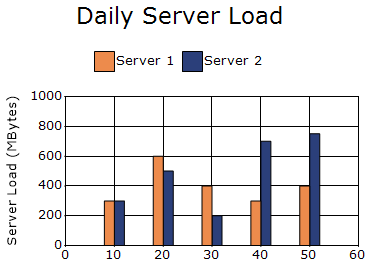
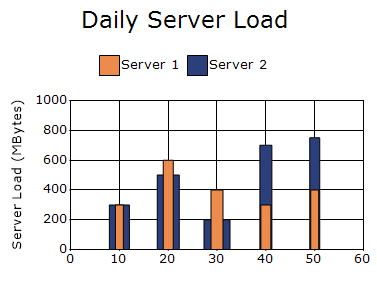
Update the chart types

Changed region(s): [[0.0, 0.3296, 0.9947, 0.9888], [0.2048, 0.0, 0.7606, 0.1199], [0.234, 0.1798, 0.7314, 0.2996]]

diff --git a/WindowsForms/chart/Chart-Types/ColumnandBar.md b/WindowsForms/chart/Chart-Types/ColumnandBar.md
@@ -40,7 +40,7 @@ chartControl.Series.Add(secondServer);
 {% endhighlight %}
 {% highlight vb %}
 
-// Create chart series and add data points into it.
+' Create chart series and add data points into it.
 Dim firstServer As New ChartSeries("Server 1", ChartSeriesType.Column)
 firstServer.Points.Add(10, 300)
 firstServer.Points.Add(20, 600)
@@ -73,7 +73,7 @@ The supported values are defined in the [ChartColumnDrawMode](https://help.syncf
 - [InDepthMode](https://help.syncfusion.com/cr/windowsforms/Syncfusion.Windows.Forms.Chart.ChartColumnDrawMode.html): Draws columns at different positions along the depth of the chart.
 - [PlaneMode](https://help.syncfusion.com/cr/windowsforms/Syncfusion.Windows.Forms.Chart.ChartColumnDrawMode.html): Draws columns side by side on the same plane.
 
-N> The `ColumnDrawMode` property applies to `Column`, `Column Range`, `Bar`, `Box and Whisker`, and `Gantt` charts. The selected mode is visible only when 3D rendering is enabled.
+N> The `ColumnDrawMode` property applies to `Column Range`, `Bar`, `Box and Whisker`, and `Gantt` charts. The selected mode is visible only when 3D rendering is enabled.
 
 The following code enables 3D rendering and displays the columns in plane mode.
 
@@ -92,7 +92,7 @@ chartControl.ColumnDrawMode = ChartColumnDrawMode.PlaneMode
 
 ### Column width mode
 
-The [ColumnWidthMode](https://help.syncfusion.com/cr/windowsforms/Syncfusion.Windows.Forms.Chart.ChartControl.html#Syncfusion_Windows_Forms_Chart_ChartControl_ColumnWidthMode) property specifies how the widths of column-like chart elements are calculated. The default value is `DefaultWidthMode`.
+The [ColumnWidthMode](https://help.syncfusion.com/cr/windowsforms/Syncfusion.Windows.Forms.Chart.ChartControl.html#Syncfusion_Windows_Forms_Chart_ChartControl_ColumnWidthMode) property specifies how the widths of column-like chart elements are calculated. The default value is [DefaultWidthMode](https://help.syncfusion.com/cr/windowsforms/Syncfusion.Windows.Forms.Chart.ChartColumnWidthMode.html#Syncfusion_Windows_Forms_Chart_ChartColumnWidthMode_DefaultWidthMode).
 
 The supported values are defined in the [ChartColumnWidthMode](https://help.syncfusion.com/cr/windowsforms/Syncfusion.Windows.Forms.Chart.ChartColumnWidthMode.html) enumeration:
 
@@ -103,15 +103,59 @@ The supported values are defined in the [ChartColumnWidthMode](https://help.sync
 N> The `ColumnWidthMode` property also applies to `Column Range`, `Stacking Column`, `Stacked Column 100`, `Box and Whisker`, and `Candle charts`.
 
 
-The following code sets FixedWidthMode and automatically calculates the column width when YValues[1] is not specified.
+The following code sets ColumnWidthMode to FixedWidthMode and defines individual column widths for each data point using YValues[1].
+
 {% tabs %}
 {% highlight c# %}
-chartControl.ColumnWidthMode =
-    ChartColumnWidthMode.FixedWidthMode;
+
+ChartSeries firstServer = new ChartSeries("Server 1", ChartSeriesType.Column);
+// X, Height(YValues[0]), Width(YValues[1])
+
+firstServer.Points.Add(new ChartPoint(10, new double[] { 300, 4 }));
+firstServer.Points.Add(new ChartPoint(20, new double[] { 600, 5 }));
+firstServer.Points.Add(new ChartPoint(30, new double[] { 400, 6 }));
+firstServer.Points.Add(new ChartPoint(40, new double[] { 300, 5 }));
+firstServer.Points.Add(new ChartPoint(50, new double[] { 400, 4 }));
+
+ChartSeries secondServer = new ChartSeries("Server 2", ChartSeriesType.Column);
+// X, Height(YValues[0]), Width(YValues[1])
+
+secondServer.Points.Add(new ChartPoint(10, new double[] { 300, 10 }));
+secondServer.Points.Add(new ChartPoint(20, new double[] { 500, 11 }));
+secondServer.Points.Add(new ChartPoint(30, new double[] { 200, 13 }));
+secondServer.Points.Add(new ChartPoint(40, new double[] { 700, 6 }));
+secondServer.Points.Add(new ChartPoint(50, new double[] { 750, 5 }));
+
+chartControl.ColumnWidthMode = ChartColumnWidthMode.FixedWidthMode;
+
+chartControl.Series.Add(firstServer);
+chartControl.Series.Add(secondServer);
+
 {% endhighlight %}
 {% highlight vb %}
-chartControl.ColumnWidthMode =
-    ChartColumnWidthMode.FixedWidthMode
+
+Dim firstServer As New ChartSeries("Server 1", ChartSeriesType.Column)
+
+' X, Height(YValues(0)), Width(YValues(1))
+firstServer.Points.Add(New ChartPoint(10, New Double() {300, 4}))
+firstServer.Points.Add(New ChartPoint(20, New Double() {600, 5}))
+firstServer.Points.Add(New ChartPoint(30, New Double() {400, 6}))
+firstServer.Points.Add(New ChartPoint(40, New Double() {300, 5}))
+firstServer.Points.Add(New ChartPoint(50, New Double() {400, 4}))
+
+Dim secondServer As New ChartSeries("Server 2", ChartSeriesType.Column)
+
+' X, Height(YValues(0)), Width(YValues(1))
+secondServer.Points.Add(New ChartPoint(10, New Double() {300, 10}))
+secondServer.Points.Add(New ChartPoint(20, New Double() {500, 11}))
+secondServer.Points.Add(New ChartPoint(30, New Double() {200, 13}))
+secondServer.Points.Add(New ChartPoint(40, New Double() {700, 6}))
+secondServer.Points.Add(New ChartPoint(50, New Double() {750, 5}))
+
+chartControl.ColumnWidthMode = ChartColumnWidthMode.FixedWidthMode
+
+chartControl.Series.Add(firstServer)
+chartControl.Series.Add(secondServer)
 {% endhighlight %}
 {% endtabs %}
 
@@ -136,11 +180,11 @@ chartControl.ColumnFixedWidth = 10
 {% endhighlight %}
 {% endtabs %}
 
-![Column Fixed width in Windows Forms Chart](../Chart-Types_images/windowsforms-column-mode-width-chart.png)
+![Column Fixed width in Windows Forms Chart](../Chart-Types_images/windowsforms-column-fixedwidth.png)
 
 ### Draw column separating lines
 
-The [DrawColumnSeparatingLines](https://help.syncfusion.com/cr/windowsforms/Syncfusion.Windows.Forms.Chart.ChartSeries.html#Syncfusion_Windows_Forms_Chart_ChartSeries_DrawColumnSeparatingLines) property controls whether separating lines are drawn between the columns in a series. The default value is `false`. 【1-22c821】
+The [DrawColumnSeparatingLines](https://help.syncfusion.com/cr/windowsforms/Syncfusion.Windows.Forms.Chart.ChartSeries.html#Syncfusion_Windows_Forms_Chart_ChartSeries_DrawColumnSeparatingLines) property controls whether separating lines are drawn between the columns in a series. The default value is `false`.
 
 N> The `DrawColumnSeparatingLines` property also applies to `Bar` charts.
 
@@ -166,7 +210,7 @@ The supported values are defined in the [ChartColumnType](https://help.syncfusio
 - [Box](https://help.syncfusion.com/cr/windowsforms/Syncfusion.Windows.Forms.Chart.ChartColumnType.html#Syncfusion_Windows_Forms_Chart_ChartColumnType_Box): Displays columns as rectangular boxes.
 - [Cylinder](https://help.syncfusion.com/cr/windowsforms/Syncfusion.Windows.Forms.Chart.ChartColumnType.html#Syncfusion_Windows_Forms_Chart_ChartColumnType_Cylinder): Displays columns as cylinders.
 
-N> The `ColumnType` property applies to `Column`, `Column Range`, `Stacking Column`, `Candle`, `Bar`, and `Stacking Bar` charts.
+N> The `ColumnType` property also applies to `Column Range`, `Stacking Column`, `Candle`, `Bar`, and `Stacking Bar` charts.
 
 The following code enables 3D rendering and displays the columns as cylinders.
 
@@ -202,93 +246,13 @@ chartControl.Series(0).ConfigItems.ColumnItem.CornerRadius = New SizeF(10, 10)
 
 ![Column Radius in Windows Forms Chart](../Chart-Types_images/windowsforms-column-corner-radius-chart.png)
 
-
-### Shading mode
-
-The [ShadingMode](https://help.syncfusion.com/cr/windowsforms/Syncfusion.Windows.Forms.Chart.ChartColumnConfigItem.html#Syncfusion_Windows_Forms_Chart_ChartColumnConfigItem_ShadingMode) property specifies the shading effect applied to columns . By default, the shading mode is set to [PhongCylinder](https://help.syncfusion.com/cr/windowsforms/Syncfusion.Windows.Forms.Chart.ChartColumnShadingMode.html#Syncfusion_Windows_Forms_Chart_ChartColumnShadingMode_PhongCylinder), rendering columns  with a cylindrical lighting effect.
-
-The [ShadingMode](https://help.syncfusion.com/cr/windowsforms/Syncfusion.Windows.Forms.Chart.ChartColumnConfigItem.html#Syncfusion_Windows_Forms_Chart_ChartColumnConfigItem_ShadingMode) property supports the following values:
-
-- [FlatRectangle](https://help.syncfusion.com/cr/windowsforms/Syncfusion.Windows.Forms.Chart.ChartColumnShadingMode.html#Syncfusion_Windows_Forms_Chart_ChartColumnShadingMode_FlatRectangle): Renders columns with flat rectangular shading which is default value of Shading mode.
-- [PhongCylinder](https://help.syncfusion.com/cr/windowsforms/Syncfusion.Windows.Forms.Chart.ChartColumnShadingMode.html#Syncfusion_Windows_Forms_Chart_ChartColumnShadingMode_PhongCylinder): Renders columns using Phong shading to create a cylindrical lighting effect.
-
-The following code example demonstrates how to apply the FlatRectangle shading mode to column chart.
-
-{% tabs %}
-{% highlight c# %}
-chartControl.Series[0].ConfigItems.ColumnItem.ShadingMode = ChartColumnShadingMode.FlatRectangle;
-{% endhighlight %}
-{% highlight vb %}
-chartControl.Series(0).ConfigItems.ColumnItem.ShadingMode = ChartColumnShadingMode.FlatRectangle
-{% endhighlight %}
-{% endtabs %}
-
-### Light angle
-
-The [LightAngle](https://help.syncfusion.com/cr/windowsforms/Syncfusion.Windows.Forms.Chart.ChartColumnConfigItem.html#Syncfusion_Windows_Forms_Chart_ChartColumnConfigItem_LightAngle) property specifies the horizontal angle of the light source when the [ShadingMode](https://help.syncfusion.com/cr/windowsforms/Syncfusion.Windows.Forms.Chart.ChartColumnConfigItem.html#Syncfusion_Windows_Forms_Chart_ChartColumnConfigItem_ShadingMode) property is set to [PhongCylinder](https://help.syncfusion.com/cr/windowsforms/Syncfusion.Windows.Forms.Chart.ChartColumnShadingMode.html#Syncfusion_Windows_Forms_Chart_ChartColumnShadingMode_PhongCylinder). The angle is specified in radians, and the default value is `-Math.PI /4`.
-
-N>
-- The `LightAngle` property also applies to `Column Range`, `Stacking Column`, `Stacking Column 100`, `Bar`, `Box and Whisker`, `Gantt`, `Histogram`, `Tornado`, `Polar`, `Radar`, `Candle`, `HiLo`, and `HiLo Open Close` charts.
-- For `HiLo` and `HiLo Open Close` charts, the `LightAngle` property applies only in 3D mode.
-
-The following code sets the light angle to Math.PI / 2.
-
-{% tabs %}
-{% highlight c# %}
-chartControl.Series[0].ConfigItems.ColumnItem.ShadingMode =
-    ChartColumnShadingMode.PhongCylinder;
-chartControl.Series[0].ConfigItems.ColumnItem.LightAngle =
-    Math.PI / 2;
-{% endhighlight %}
-{% highlight vb %}
-chartControl.Series(0).ConfigItems.ColumnItem.ShadingMode =
-    ChartColumnShadingMode.PhongCylinder
-chartControl.Series(0).ConfigItems.ColumnItem.LightAngle =
-    Math.PI / 2
-{% endhighlight %}
-{% endtabs %}
-
-### Light color
-
-The [LightColor](https://help.syncfusion.com/cr/windowsforms/Syncfusion.Windows.Forms.Chart.ChartColumnConfigItem.html#Syncfusion_Windows_Forms_Chart_ChartColumnConfigItem_LightColor) property specifies the color of the light source when the [ShadingMode](https://help.syncfusion.com/cr/windowsforms/Syncfusion.Windows.Forms.Chart.ChartColumnConfigItem.html#Syncfusion_Windows_Forms_Chart_ChartColumnConfigItem_ShadingMode) property is set to [PhongCylinder](https://help.syncfusion.com/cr/windowsforms/Syncfusion.Windows.Forms.Chart.ChartColumnShadingMode.html#Syncfusion_Windows_Forms_Chart_ChartColumnShadingMode_PhongCylinder). If no color is specified, `White` is used as the light source color by default.
-
-N> The `LightColor` property also applies to `Bar`, `Box and Whisker`, `Gantt`, `Histogram`, `Tornado`, and `Radar` charts.
-
-The following code example demonstrates how to apply light color.
-
-{% tabs %}
-{% highlight c# %}
-chartControl.Series[0].ConfigItems.ColumnItem.LightColor = Color.Red;
-{% endhighlight %}
-{% highlight vb %}
-chartControl.Series(0).ConfigItems.ColumnItem.LightColor = Color.Red
-{% endhighlight %}
-{% endtabs %}
-
-### Phong alpha
-
-The [PhongAlpha](https://help.syncfusion.com/cr/windowsforms/Syncfusion.Windows.Forms.Chart.ChartColumnConfigItem.html#Syncfusion_Windows_Forms_Chart_ChartColumnConfigItem_PhongAlpha) property controls the intensity and sharpness of the specular lighting effect applied to columns or bars. By default, the value is set to `20d`.
-
-N> The `PhongAlpha` property applies to  `Bar`, `Box and Whisker`, `Gantt`, `Histogram`, `Tornado`, `Polar`, `Radar`, `HiLo`, `HiLo Open Close`, `Candle`, and `Scatter` charts.
-
-The following code example demonstrates how to set the PhongAlpha property to 40d for column chart.
-
-{% tabs %}
-{% highlight c# %}
-chartControl.Series[0].ConfigItems.ColumnItem.PhongAlpha = 40d;
-{% endhighlight %}
-{% highlight vb %}
-chartControl.Series(0).ConfigItems.ColumnItem.PhongAlpha = 40.0
-{% endhighlight %}
-{% endtabs %}
-
 ### Spacing
 
 The [Spacing](https://help.syncfusion.com/windowsforms/chart/chart-series#spacing) property specifies the space between data points as a percentage of the X-axis interval width. The default value is `30`.
 
 N>
 - The supported value ranges from `10` to `99`. The remaining interval width is used to render the data points and is divided among the series when multiple series are displayed.
-- The `Spacing` property also applies to `Bar`, `Box and Whisker`, `Gantt`, `Tornado`, `Candle`, `HiLo`, and `HiLo Open Close` charts.
+- The `Spacing` property also applies to `Column Range`, `Stacking Column`, `Stacked Column 100`, `Bar`, `Stacking Bar`, `Stacked Bar 100`, `Box and Whisker`, `Gantt`, `Tornado`, `Candle`, `HiLo`, and `HiLo Open Close` charts.
 - The `Spacing` property is not applied when the `ColumnWidthMode` property is set to `FixedWidthMode`.
 
 The following code sets the spacing between columns to `70`.

diff --git a/WindowsForms/chart/Chart-Types/BubbleandScatter.md b/WindowsForms/chart/Chart-Types/BubbleandScatter.md
@@ -29,16 +29,16 @@ series.Points.Add(90, 35, 4);
 
 chartControl.Series.Add(series);
 
-ChartSeries ChartSeries = new ChartSeries("Technology BBB", ChartSeriesType.Bubble);
-ChartSeries.Text = ChartSeries.Name;
+ChartSeries chartSeries = new ChartSeries("Technology BBB", ChartSeriesType.Bubble);
+chartSeries.Text = ChartSeries.Name;
 
-ChartSeries.Points.Add(10, 18, 4);
-ChartSeries.Points.Add(30, 29, 3);
-ChartSeries.Points.Add(50, 18, 2);
-ChartSeries.Points.Add(70, 24, 4);
-ChartSeries.Points.Add(90, 15, 4);
+chartSeries.Points.Add(10, 18, 4);
+chartSeries.Points.Add(30, 29, 3);
+chartSeries.Points.Add(50, 18, 2);
+chartSeries.Points.Add(70, 24, 4);
+chartSeries.Points.Add(90, 15, 4);
 
-chartControl.Series.Add(ChartSeries);
+chartControl.Series.Add(chartSeries);
 
 {% endhighlight %}
 {% highlight vb %}
@@ -54,23 +54,23 @@ series.Points.Add(90, 35, 4)
 
 chartControl.Series.Add(series)
 
-Dim series2 As New ChartSeries("Technology BBB", ChartSeriesType.Bubble)
-series2.Text = series2.Name
+Dim chartSeries As New ChartSeries("Technology BBB", ChartSeriesType.Bubble)
+chartSeries.Text = series2.Name
 
-series2.Points.Add(10, 18, 4)
-series2.Points.Add(30, 29, 3)
-series2.Points.Add(50, 18, 2)
-series2.Points.Add(70, 24, 4)
-series2.Points.Add(90, 15, 4)
+chartSeries.Points.Add(10, 18, 4)
+chartSeries.Points.Add(30, 29, 3)
+chartSeries.Points.Add(50, 18, 2)
+chartSeries.Points.Add(70, 24, 4)
+chartSeries.Points.Add(90, 15, 4)
 
-chartControl.Series.Add(series2)
+chartControl.Series.Add(chartSeries)
 
 {% endhighlight %}
 {% endtabs %}
 
 ![Bubble Chart in Windows Forms](../Chart-Types_images/windowsforms-bubble-chart.png)
 
-### Min bounds and max bounds
+### Min and max bounds
 
 The size of the bubbles depends on [MinBounds](https://help.syncfusion.com/cr/windowsforms/Syncfusion.Windows.Forms.Chart.ChartBubbleConfigItem.html#Syncfusion_Windows_Forms_Chart_ChartBubbleConfigItem_MinBounds) and [MaxBounds](https://help.syncfusion.com/cr/windowsforms/Syncfusion.Windows.Forms.Chart.ChartBubbleConfigItem.html#Syncfusion_Windows_Forms_Chart_ChartBubbleConfigItem_MaxBounds) of the bubbleItem in series. By default, the minBounds is (20, 20) and MaxBounds is (50, 50), so the width and height of the bubbles lie between 20 and 50.
 
@@ -93,7 +93,7 @@ series.ConfigItems.BubbleItem.MaxBounds = New RectangleF(0, 0, 25, 25)
 {% endhighlight %}
 {% endtabs %}
 
-![Bubble Chart in Windows Forms](../Chart-Types_images/windowsforms-chart-minbounds-and-maxbounds.png)
+![Bubble Min and Max Bounds in Windows Forms](../Chart-Types_images/windowsforms-chart-minbounds-and-maxbounds.png)
 
 ### Bubble type
 
@@ -155,16 +155,15 @@ series.Points.Add(90, 35, 4);
 
 chartControl.Series.Add(series);
 
-ChartSeries ChartSeries = new ChartSeries("Technology BBB", ChartSeriesType.Scatter);
-ChartSeries.Text = ChartSeries.Name;
+ChartSeries chartSeries = new ChartSeries("Technology BBB", ChartSeriesType.Scatter); chartSeries.Text = chartSeries.Name;
 
-ChartSeries.Points.Add(10, 18, 4);
-ChartSeries.Points.Add(30, 29, 3);
-ChartSeries.Points.Add(50, 18, 2);
-ChartSeries.Points.Add(70, 24, 4);
-ChartSeries.Points.Add(90, 15, 4);
+chartSeries.Points.Add(10, 18, 4);
+chartSeries.Points.Add(30, 29, 3);
+chartSeries.Points.Add(50, 18, 2);
+chartSeries.Points.Add(70, 24, 4);
+chartSeries.Points.Add(90, 15, 4);
 
-chartControl.Series.Add(ChartSeries);
+chartControl.Series.Add(chartSeries);
 
 {% endhighlight %}
 {% highlight vb %}
@@ -245,7 +244,7 @@ chartControl.Series(0).ScatterConnectType =
 
 ### Scatter spline tension
 
-The [ScatterSplineTension](https://help.syncfusion.com/cr/windowsforms/Syncfusion.Windows.Forms.Chart.ChartSeries.html#Syncfusion_Windows_Forms_Chart_ChartSeries_ScatterSplineTension) property specifies the tension of the spline curve connecting the scatter data points.
+The [ScatterSplineTension](https://help.syncfusion.com/cr/windowsforms/Syncfusion.Windows.Forms.Chart.ChartSeries.html#Syncfusion_Windows_Forms_Chart_ChartSeries_ScatterSplineTension) property specifies the tension of the spline curve connecting the scatter data points. The default value is `0.5`.
 
 N> The [ScatterSplineTension](https://help.syncfusion.com/cr/windowsforms/Syncfusion.Windows.Forms.Chart.ChartSeries.html#Syncfusion_Windows_Forms_Chart_ChartSeries_ScatterSplineTension) property takes effect when the [ScatterConnectType](https://help.syncfusion.com/cr/windowsforms/Syncfusion.Windows.Forms.Chart.ChartSeries.html#Syncfusion_Windows_Forms_Chart_ChartSeries_ScatterConnectType) property is set to [Spline](https://help.syncfusion.com/cr/windowsforms/Syncfusion.Windows.Forms.Chart.ScatterConnectType.html).
 
@@ -256,13 +255,13 @@ The following code configures the spline connection and its tension.
 chartControl.Series[0].ScatterConnectType =
     ScatterConnectType.Spline;
 
-chartControl.Series[0].ScatterSplineTension = 0.5;
+chartControl.Series[0].ScatterSplineTension = 0.9;
 {% endhighlight %}
 {% highlight vb %}
 chartControl.Series(0).ScatterConnectType =
     ScatterConnectType.Spline
 
-chartControl.Series(0).ScatterSplineTension = 0.5
+chartControl.Series(0).ScatterSplineTension = 0.9
 {% endhighlight %}
 {% endtabs %}
 

diff --git a/WindowsForms/chart/Chart-Types/BoxandWhisker.md b/WindowsForms/chart/Chart-Types/BoxandWhisker.md
@@ -85,7 +85,7 @@ chartControl.Series.Add(profitSeries)
 
 ## Percentile mode
 
-The [PercentileMode](https://help.syncfusion.com/cr/windowsforms/Syncfusion.Windows.Forms.Chart.ChartBoxAndWhiskerConfigItem.html#Syncfusion_Windows_Forms_Chart_ChartBoxAndWhiskerConfigItem_PercentileMode) property controls whether the Box and Whisker chart is rendered in percentile mode or normal mode and is set to `false` by default.
+The [PercentileMode](https://help.syncfusion.com/cr/windowsforms/Syncfusion.Windows.Forms.Chart.ChartBoxAndWhiskerConfigItem.html#Syncfusion_Windows_Forms_Chart_ChartBoxAndWhiskerConfigItem_PercentileMode) property controls whether the box and whisker chart is rendered in percentile mode or normal mode and is set to `false` by default.
 
 The following code enables percentile mode.
 
@@ -124,7 +124,7 @@ chartControl.Series(1).ConfigItems.BoxAndWhiskerItem.OutLierWidth = 50
 
 ## Percentile
 
-The [Percentile](https://help.syncfusion.com/cr/windowsforms/Syncfusion.Windows.Forms.Chart.ChartBoxAndWhiskerConfigItem.html#Syncfusion_Windows_Forms_Chart_ChartBoxAndWhiskerConfigItem_Percentile) property specifies the percentile value used to determine outliers in a Box and Whisker chart. The default percentile value is `0`.
+The [Percentile](https://help.syncfusion.com/cr/windowsforms/Syncfusion.Windows.Forms.Chart.ChartBoxAndWhiskerConfigItem.html#Syncfusion_Windows_Forms_Chart_ChartBoxAndWhiskerConfigItem_Percentile) property specifies the percentile value used to determine outliers in a box and whisker chart. The default percentile value is `0`.
 
 N> The [Percentile](https://help.syncfusion.com/cr/windowsforms/Syncfusion.Windows.Forms.Chart.ChartBoxAndWhiskerConfigItem.html#Syncfusion_Windows_Forms_Chart_ChartBoxAndWhiskerConfigItem_Percentile) property is applicable only when [PercentileMode](https://help.syncfusion.com/cr/windowsforms/Syncfusion.Windows.Forms.Chart.ChartBoxAndWhiskerConfigItem.html#Syncfusion_Windows_Forms_Chart_ChartBoxAndWhiskerConfigItem_PercentileMode) is enabled.
 
@@ -149,7 +149,7 @@ chartControl.Series(1).ConfigItems.BoxAndWhiskerItem.Percentile = 0.15
 
 ## Outlier width
 
-The [OutLierWidth](https://help.syncfusion.com/cr/windowsforms/Syncfusion.Windows.Forms.Chart.ChartBoxAndWhiskerConfigItem.html#Syncfusion_Windows_Forms_Chart_ChartBoxAndWhiskerConfigItem_OutLierWidth) property specifies the width of the outlier marker in a Box and Whisker chart. By default, the outlier width is set to `0`.
+The [OutLierWidth](https://help.syncfusion.com/cr/windowsforms/Syncfusion.Windows.Forms.Chart.ChartBoxAndWhiskerConfigItem.html#Syncfusion_Windows_Forms_Chart_ChartBoxAndWhiskerConfigItem_OutLierWidth) property specifies the width of the outlier marker in a box and whisker chart. By default, the outlier width is set to `0`.
 
 N>The [OutLierWidth](https://help.syncfusion.com/cr/windowsforms/Syncfusion.Windows.Forms.Chart.ChartBoxAndWhiskerConfigItem.html#Syncfusion_Windows_Forms_Chart_ChartBoxAndWhiskerConfigItem_OutLierWidth) property is applicable only when [PercentileMode](https://help.syncfusion.com/cr/windowsforms/Syncfusion.Windows.Forms.Chart.ChartBoxAndWhiskerConfigItem.html#Syncfusion_Windows_Forms_Chart_ChartBoxAndWhiskerConfigItem_PercentileMode) is set to `true` and the [Percentile](https://help.syncfusion.com/cr/windowsforms/Syncfusion.Windows.Forms.Chart.ChartBoxAndWhiskerConfigItem.html#Syncfusion_Windows_Forms_Chart_ChartBoxAndWhiskerConfigItem_Percentile) property is assigned a value greater than `0`.
 

diff --git a/WindowsForms/chart/Chart-Types/Funnelandpyramid.md b/WindowsForms/chart/Chart-Types/Funnelandpyramid.md
@@ -79,7 +79,7 @@ chartControl.Legend.Visible = False
 
 ### Figure base
 
-The [FigureBase](https://help.syncfusion.com/cr/windowsforms/Syncfusion.Windows.Forms.Chart.ChartPyramidConfigItem.html#Syncfusion_Windows_Forms_Chart_ChartPyramidConfigItem_FigureBase) property specifies base shape of the Pyramid chart in 3D mode.
+The [FigureBase](https://help.syncfusion.com/cr/windowsforms/Syncfusion.Windows.Forms.Chart.ChartPyramidConfigItem.html#Syncfusion_Windows_Forms_Chart_ChartPyramidConfigItem_FigureBase) property specifies base shape of the pyramid chart in 3D mode.
 
 The available base types are:
 
@@ -90,9 +90,11 @@ The following code displays the pyramid chart with a circular base.
 
 {% tabs %}
 {% highlight c# %}
+chartControl.Series3D = true;
 chartControl.Series[0].ConfigItems.PyramidItem.FigureBase = ChartFigureBase.Circle;
 {% endhighlight %}
 {% highlight vb %}
+chartControl.Series3D = True
 chartControl.Series(0).ConfigItems.PyramidItem.FigureBase = ChartFigureBase.Circle
 {% endhighlight %}
 {% endtabs %}
@@ -413,7 +415,7 @@ The [FunnelMode](https://help.syncfusion.com/cr/windowsforms/Syncfusion.Windows.
 
 It supports the following values:
 
-- [YIsHeight](https://help.syncfusion.com/cr/windowsforms/Syncfusion.Windows.Forms.Chart.ChartFunnelMode.html#Syncfusion_Windows_Forms_Chart_ChartFunnelMode_YIsHeight): Uses the Y-value to calculate the height of each funnel block. It is the default value of the Funnel mode.
+- [YIsHeight](https://help.syncfusion.com/cr/windowsforms/Syncfusion.Windows.Forms.Chart.ChartFunnelMode.html#Syncfusion_Windows_Forms_Chart_ChartFunnelMode_YIsHeight): Uses the Y-value to calculate the height of each funnel block. It is the default value of the funnel mode.
 - [YIsWidth](https://help.syncfusion.com/cr/windowsforms/Syncfusion.Windows.Forms.Chart.ChartFunnelMode.html#Syncfusion_Windows_Forms_Chart_ChartFunnelMode_YIsWidth): Uses the Y-value to calculate the width of each funnel block.
 
 The following code calculates the width of each funnel block based on its Y-value.

diff --git a/WindowsForms/chart/Chart-Types/ChartTypes.md b/WindowsForms/chart/Chart-Types/ChartTypes.md
@@ -66,12 +66,6 @@ Unlimited</td><td>
 2</td></tr>
 <tr>
 <td>
-Combination Charts</td><td>
-2</td><td>
-Unlimited</td><td>
-1</td></tr>
-<tr>
-<td>
 Funnel Charts</td><td>
 1</td><td>
 1</td><td>
